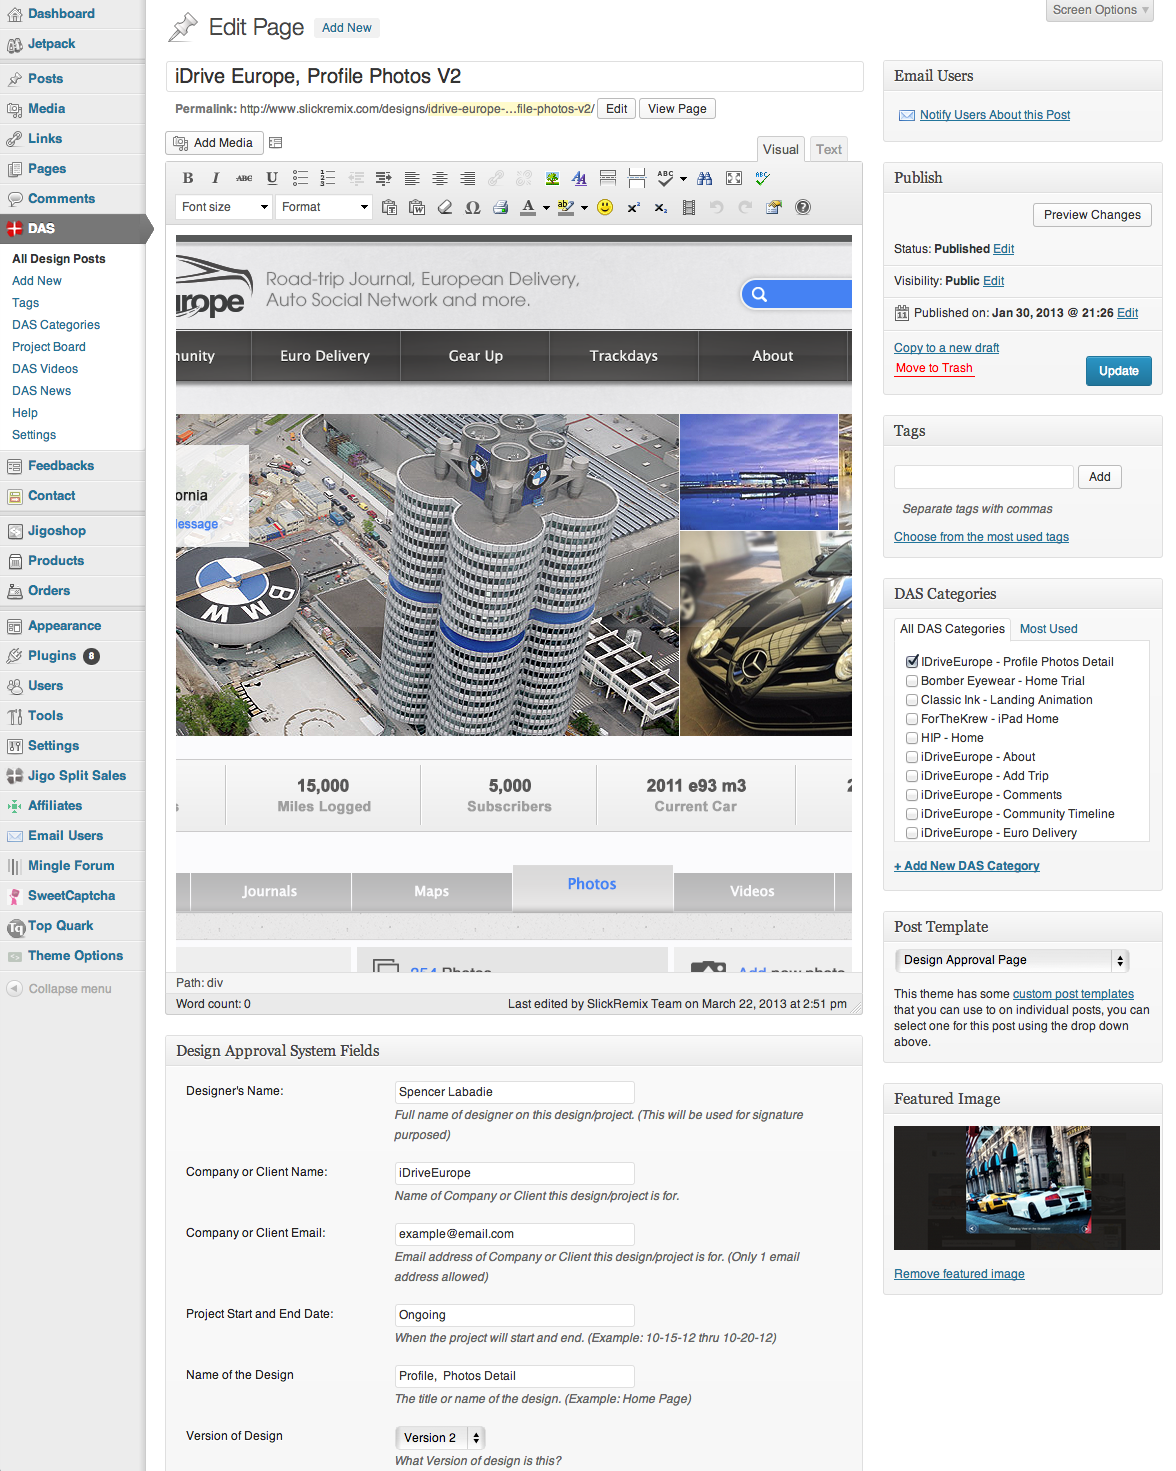
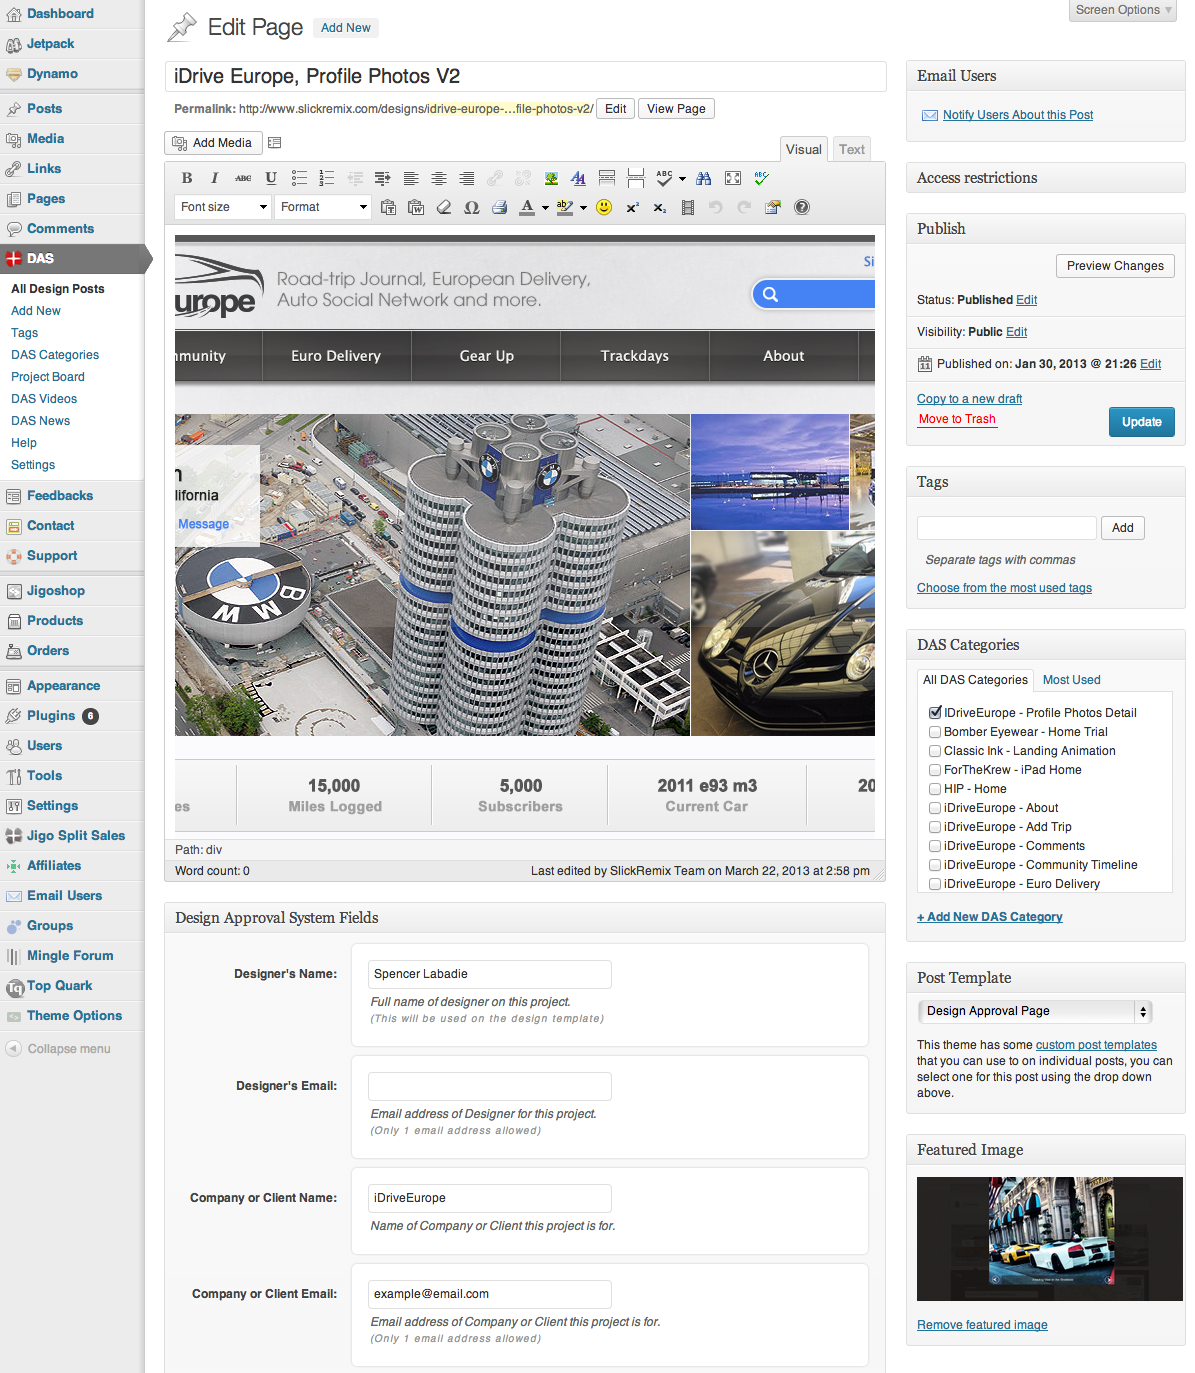
3.1 update, now designer can add there email address to the design post to receive email notifications. Plus New UI design for the design post.
git-svn-id: https://plugins.svn.wordpress.org/design-approval-system/trunk@689474 b8457f37-d9ea-0310-8a92-e5e31aec5664

diff --git a/admin/css/admin.css b/admin/css/admin.css
@@ -22,6 +22,69 @@
 	background-repeat: no-repeat !important;
 }
 
+#custom_das_meta_box .description{
+    margin-left:3px !important;
+    line-height:16px;
+}
+#custom_das_meta_box small {
+     letter-spacing:.1em;
+    color:#999;
+}
+#custom_das_meta_box .description  {
+    font-style: italic !important;
+    letter-spacing:.08em;
+    margin-top:4px !important;
+    display:block;
+    margin-right:15px;
+}
+#custom_das_meta_box textarea {
+    margin-bottom:-5px !important;
+}
+#custom_das_meta_box input, #custom_das_meta_box textarea  {
+    padding:5px;
+    line-height:17px;
+    border-radius:4px;
+    -webkit-transition: all 0.30s ease-in-out;
+	-moz-transition: all 0.30s ease-in-out;
+	-o-transition: all 0.30s ease-in-out;
+	transition: all 0.30s ease-in-out;
+}
+#custom_das_meta_box input:hover, #custom_das_meta_box textarea:hover  {
+    border:1px solid #c1c1c1 !important;
+}
+#custom_das_meta_box .form-table td {
+ background:#FFF;
+ border-radius:5px;
+ box-shadow:0px 0 3px #ccc;
+ padding:15px 5px 20px 15px !important; 
+ width:75% !important;
+    -webkit-transition: all 0.50s ease-in-out;
+	-moz-transition: all 0.50s ease-in-out;
+	-o-transition: all 0.50s ease-in-out;
+	transition: all 0.50s ease-in-out;
+}
+#custom_das_meta_box .form-table td:hover {
+ background:none;
+ box-shadow:0px 0 0px #ccc;
+    -webkit-transition: all 0.50s ease-in-out;
+	-moz-transition: all 0.50s ease-in-out;
+	-o-transition: all 0.50s ease-in-out;
+	transition: all 0.50s ease-in-out;
+}
+#custom_das_meta_box tr {
+ padding:5px !important;
+ display:block;
+}
+#custom_das_meta_box th {
+ text-align:right !important;
+ padding-top:21px !important;
+ font-weight:bold;
+ padding-left:0px;
+}
+#custom_das_meta_box th label {
+ padding-right:5px;
+ color:#444;
+}
 /* Retina Display Size */
 @media only screen and (-webkit-min-device-pixel-ratio: 2), only screen and (min--moz-device-pixel-ratio: 2), only screen and (-o-min-device-pixel-ratio: 2/1), only screen and (min-device-pixel-ratio: 2) {
  #menu-posts-designapprovalsystem .wp-not-current-submenu {

diff --git a/includes/das-meta-box.php b/includes/das-meta-box.php
@@ -21,11 +21,13 @@ $prefix = 'custom_';
 
 if(is_plugin_active('das-roles-extension/das-roles-extension.php')) {
 	$designer_name_type = 'select_designer_name';
+	$designer_email_type = 'select_designer_email';
 	$client_name_type = 'select_client_name';
 	$client_email_type = 'select_client_email';
 }
 else	{
 	$designer_name_type = 'text';
+	$designer_email_type = 'text';
 	$client_name_type = 'text';
 	$client_email_type = 'text';
 }
@@ -33,37 +35,43 @@ else	{
 $custom_meta_fields = array(
 	array(
 		'label'=> "Designer's Name:",
-		'desc'	=> 'Full name of designer on this design/project. (This will be used for signature purposed)',
+		'desc'	=> 'Full name of designer on this project.<br/><small>(This will be used on the design template)</small>',
 		'id'	=> $prefix.'designers_name',
 		'type'	=> $designer_name_type
 	),
 	array(
+		'label'=> "Designer's Email:",
+		'desc'	=> 'Email address of Designer for this project.<br/><small>(Only 1 email address allowed)</small>',
+		'id'	=> $prefix.'designers_email',
+		'type'	=> $designer_email_type
+	),
+	array(
 		'label'=> "Company or Client Name:",
-		'desc'	=> 'Name of Company or Client this design/project is for.',
+		'desc'	=> 'Name of Company or Client this project is for.',
 		'id'	=> $prefix.'client_name',
 		'type'	=> $client_name_type
 	),
 	array(
 		'label'=> "Company or Client Email:",
-		'desc'	=> 'Email address of Company or Client this design/project is for. (Only 1 email address allowed)',
+		'desc'	=> 'Email address of Company or Client this project is for.<br/><small>(Only 1 email address allowed)</small>',
 		'id'	=> $prefix.'clients_email',
 		'type'	=> $client_email_type
 	),
 	array(
 		'label'=> "Project Start and End Date:",
-		'desc'	=> 'When the project will start and end. (Example: 10-15-12 thru 10-20-12)',
+		'desc'	=> 'When the project will start and end.<br/><small>(Example: 10-15-12 thru 10-20-12)</small>',
 		'id'	=> $prefix.'project_start_end',
 		'type'	=> 'text'
 	),
 	array(
-		'label'=> "Name of the Design",
-		'desc'	=> 'The title or name of the design. (Example: Home Page)',
+		'label'=> "Name of the Project:",
+		'desc'	=> 'The title or name of the project.<br/><small>(Example: Home Page)</small>',
 		'id'	=> $prefix.'name_of_design',
 		'type'	=> 'text'
 	),
 	array(
-		'label'=> 'Version of Design',
-		'desc'	=> 'What Version of design is this?',
+		'label'=> 'Version of the Project:',
+		'desc'	=> 'What Version of the project is this?',
 		'id'	=> $prefix.'version_of_design',
 		'type'	=> 'select',
 		'options' => array (
@@ -171,12 +179,12 @@ $custom_meta_fields = array(
 	),
 	array(
 		'label'=> "Designer Notes:",
-		'desc'	=> 'Notes about design or project to the Client',
+		'desc'	=> 'Notes about the project to the client.',
 		'id'	=> $prefix.'designer_notes',
 		'type'	=> 'textarea'
 	),
 	array(
-		'label'=> 'Client Notes On or Off',
+		'label'=> 'Client Notes On or Off:',
 		'desc'	=> 'Make the client notes viewable on the page.',
 		'id'	=> $prefix.'client_notes_on_off',
 		'type'	=> 'select',
@@ -192,8 +200,8 @@ $custom_meta_fields = array(
 		)
 	),
 	array(
-		'label'=> 'Client Notes',
-		'desc'	=> 'Notes from the client about the design.',
+		'label'=> 'Client Notes:',
+		'desc'	=> 'Notes from the client about the project.',
 		'id'	=> $prefix.'client_notes',
 		'type'	=> 'textarea'
 	),
@@ -202,7 +210,7 @@ $custom_meta_fields = array(
 
 if(is_plugin_active('das-changes-extension/das-changes-extension.php')) {
 	$custom_meta_fields[] =	array(
-				'label'=> 'Paid or Not Paid Version',
+				'label'=> 'Paid or Not Paid Version:',
 				'desc'	=> 'Has the next set of design changes been paid for by client? If not select "Not Paid" and the next time the client trys to submit changes they will be notified that they are being charged for additional changes. [If client decides to submit additional changes you will recieve an email letting you know that they have accepted and it will also send them an email confirming this.',
 				'id'	=> $prefix.'paid_not_paid',
 				'type'	=> 'select',
@@ -330,20 +338,29 @@ echo '<input type="hidden" name="custom_meta_box_nonce" value="'.wp_create_nonce
 						 echo '<select name="'.$field['id'].'" id="'.$field['id'].'">';
 						 
 						  echo '<option value="">- Please Select Designer -</option>';
-						  $client_roles = get_option('das-settings-designer-role');
-						  $client_users_name = get_users('blog_id=1&orderby=display_name&role='.$client_roles.'');			  
+						  $designer_roles = get_option('das-settings-designer-role');
+						  $designer_users_name = get_users('blog_id=1&orderby=display_name&role='.$designer_roles.'');			  
 					
-							foreach ($client_users_name as $user) {
-								$clients_name = $user->display_name;
-								$clients_email = $user->user_email;
-								$row = $clients_name;
+							foreach ($designer_users_name as $user) {
+								$designer_name = $user->display_name;
+								$designer_email = $user->user_email;
+								$row = $designer_name;
 								  
-									echo '<option value="'.$row.'"', $meta == $row ? 'selected="selected"':'','>'.$row.'</option>';
+									echo '<option value="'.$row.'"', $meta == $row ? 'selected="selected"':'','>'.$row.' ['.$designer_email.'] </option>';
 							}
 					
 						  echo '</select><br /><span class="description">'.$field['desc'].'</span>';
 						  
 					break;
+					
+					// Client Email
+					case 'select_designer_email':
+
+						echo '<input type="text" name="'.$field['id'].'" id="'.$field['id'].'" value="'.$meta.'" size="30" />
+							<br /><span class="description">'.$field['desc'].'</span>';
+					break;
+					
+					
 					
 					// Client Name
 					case 'select_client_name':
@@ -405,7 +422,29 @@ global $post_type;
 						  }
 						// then display it in the following class	
 						jQuery("#custom_clients_email").val(submatch);
+						
 					})
+					
+					
+						
+						// This selector is called every time a select box is changed
+					jQuery("select#custom_designers_name").change(function(){
+						// varible to hold string
+						var str = "";
+						var finalString = "";
+						jQuery("select#custom_designers_name option:selected").each(function(){
+							// when the select box is changed, we add the value text to the varible
+							str += jQuery(this).text() + " ";
+						   
+						});
+						 var matches = str.match(/\[(.*?)\]/);
+						  if (matches) {
+							  var submatch = matches[1];
+						  }
+						// then display it in the following class	
+						jQuery("#custom_designers_email").val(submatch);
+						
+						})
 		  <?php } ?>
 			
 		  });

diff --git a/templates/slickremix/form-processes/new-email-for-designer-process.php b/templates/slickremix/form-processes/new-email-for-designer-process.php
@@ -7,6 +7,7 @@
 require_once('class.phpmailer.php');
 // Retrieve form data. GET user submitted data using AJAX POST in case user does not support javascript, we'll use POST instead
 $email4 = ($_GET['email4']) ?$_GET['email4'] : $_POST['email4'];
+$designerEmail = ($_GET['designer_email']) ?$_GET['designer_email'] : $_POST['designer_email'];
 $companyname4 = ($_GET['companyname4']) ?$_GET['companyname4'] : $_POST['companyname4'];
 $version4 = ($_GET['version4']) ?$_GET['version4'] : $_POST['version4'];
 $customNameOfDesign = ($_GET['customNameOfDesign']) ?$_GET['customNameOfDesign'] : $_POST['customNameOfDesign'];
@@ -17,6 +18,7 @@ $human4 = ($_GET['human4']) ?$_GET['human4'] : $_POST['human4'];
 //Company Info
 $das_settings_company_name = ($_GET['dasSettingsCompanyName']) ?$_GET['dasSettingsCompanyName'] : $_POST['dasSettingsCompanyName'];
 $das_settings_company_email = ($_GET['dasSettingsCompanyEmail']) ?$_GET['dasSettingsCompanyEmail'] : $_POST['dasSettingsCompanyEmail'];
+
 //Messages
 $das_settings_email_for_designers_message_to_clients = ($_GET['dasSettingsEmailForDesignersMessageToClients']) ?$_GET['dasSettingsEmailForDesignersMessageToClients'] : $_POST['dasSettingsEmailForDesignersMessageToClients'];
 
@@ -125,6 +127,7 @@ $dasSettingsSmtp = get_option( 'das-settings-smtp' );
 	$mail->FromName   = $das_settings_company_name;
 	$mail->From       = $das_settings_company_email;
 	$mail->AddAddress($to_designer, $das_settings_company_name);
+	$mail->AddCC($designerEmail);
 	$mail->Subject  = $subject_designer;
 	$mail->MsgHTML($message_designer);
   }

diff --git a/templates/slickremix/form-processes/new-approved-digital-signature-process.php b/templates/slickremix/form-processes/new-approved-digital-signature-process.php
@@ -5,9 +5,10 @@
 <body>
 <?php
 require_once('class.phpmailer.php');
-// Retrieve form data. GET user submitted data using AJAX POST in case user does not support javascript, we'll use POST instead
+// Retrieve form data
 $a1 = ($_GET['a1']) ?$_GET['a1'] : $_POST['a1'];
 $email1 = ($_GET['email1']) ?$_GET['email1'] : $_POST['email1'];
+$designerEmail = ($_GET['designer_email']) ?$_GET['designer_email'] : $_POST['designer_email'];
 $companyname4 = ($_GET['companyname4']) ?$_GET['companyname4'] : $_POST['companyname4'];
 $designtitle = ($_GET['designtitle']) ?$_GET['designtitle'] : $_POST['designtitle'];
 $version4 = ($_GET['version4']) ?$_GET['version4'] : $_POST['version4'];
@@ -132,6 +133,7 @@ $dasSettingsSmtp = get_option( 'das-settings-smtp' );
 	$mail->FromName   = $das_settings_company_name;
 	$mail->From       = $das_settings_company_email;
 	$mail->AddAddress($to_designer, $das_settings_company_name);
+	$mail->AddCC($designerEmail);
 	$mail->Subject  = $subject_designer;
 	$mail->MsgHTML($message_designer);
   }

diff --git a/design-approval-system.php b/design-approval-system.php
@@ -3,12 +3,12 @@
 Plugin Name: Design Approval System
 Plugin URI: http://slickremix.com/
 Description: A plugin to display Designs and have a client approve them by giving a digital signature.
-Version: 3.0
+Version: 3.1
 Author: SlickRemix
 Author URI: http://slickremix.com/
 Requires at least: wordpress 3.4.0
 Tested up to: wordpress 3.5.1
-Stable tag: 3.0
+Stable tag: 3.1
 License: GPLv2 or later
 License URI: http://www.gnu.org/licenses/gpl-2.0.html
 
